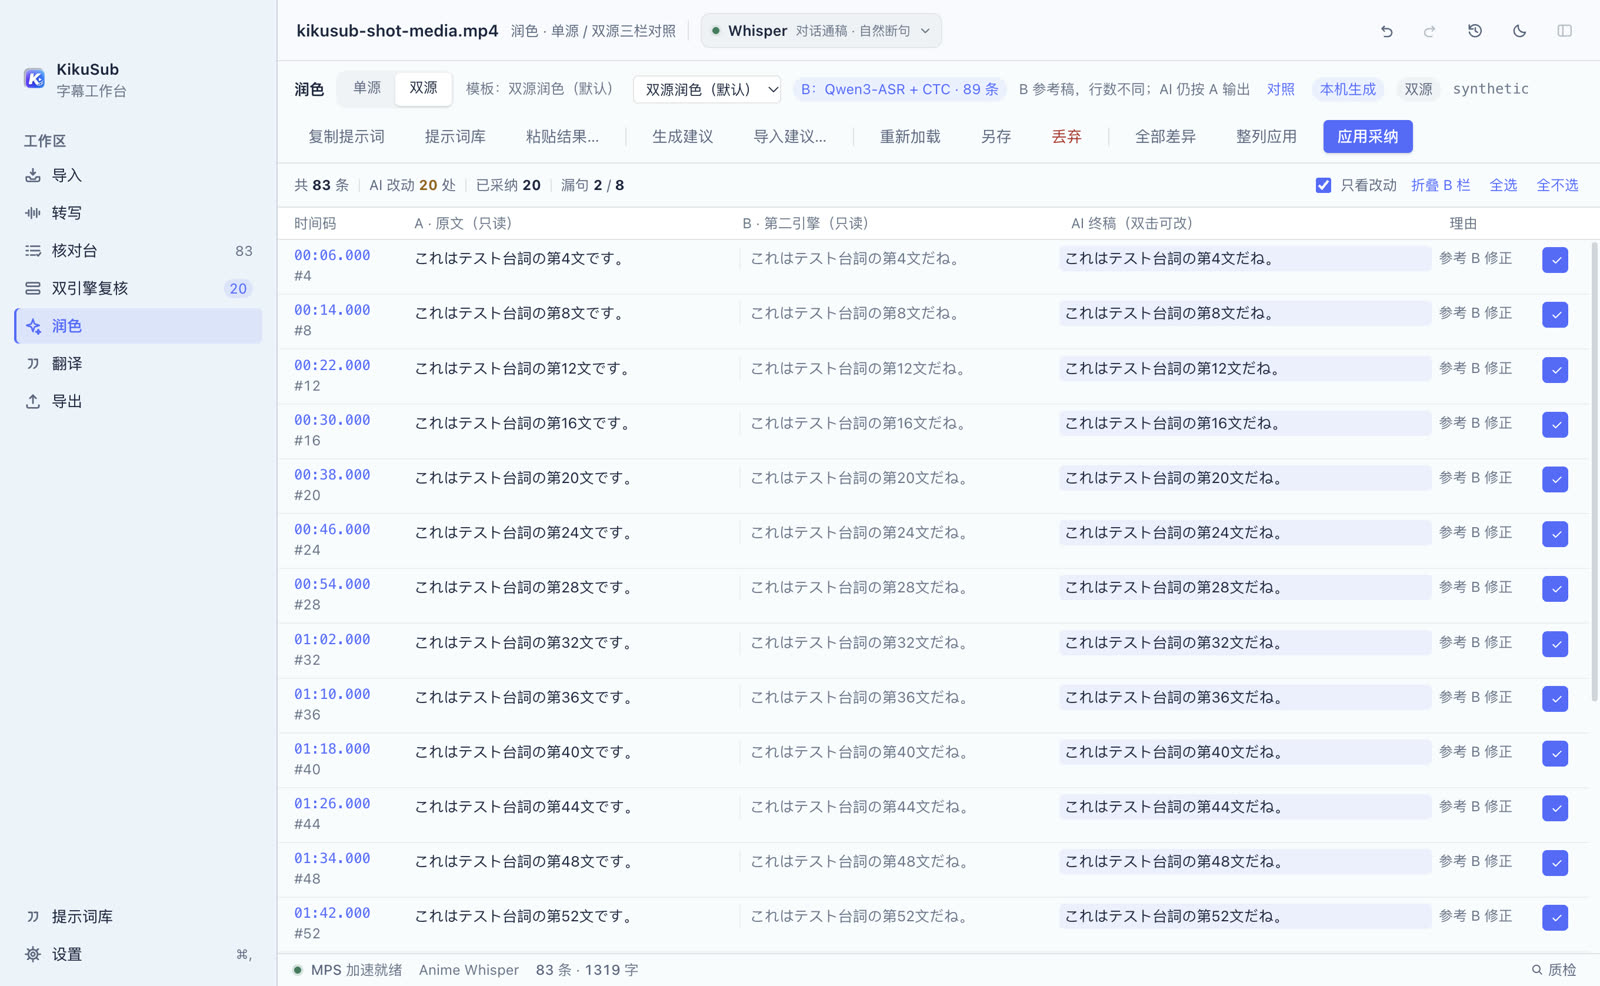
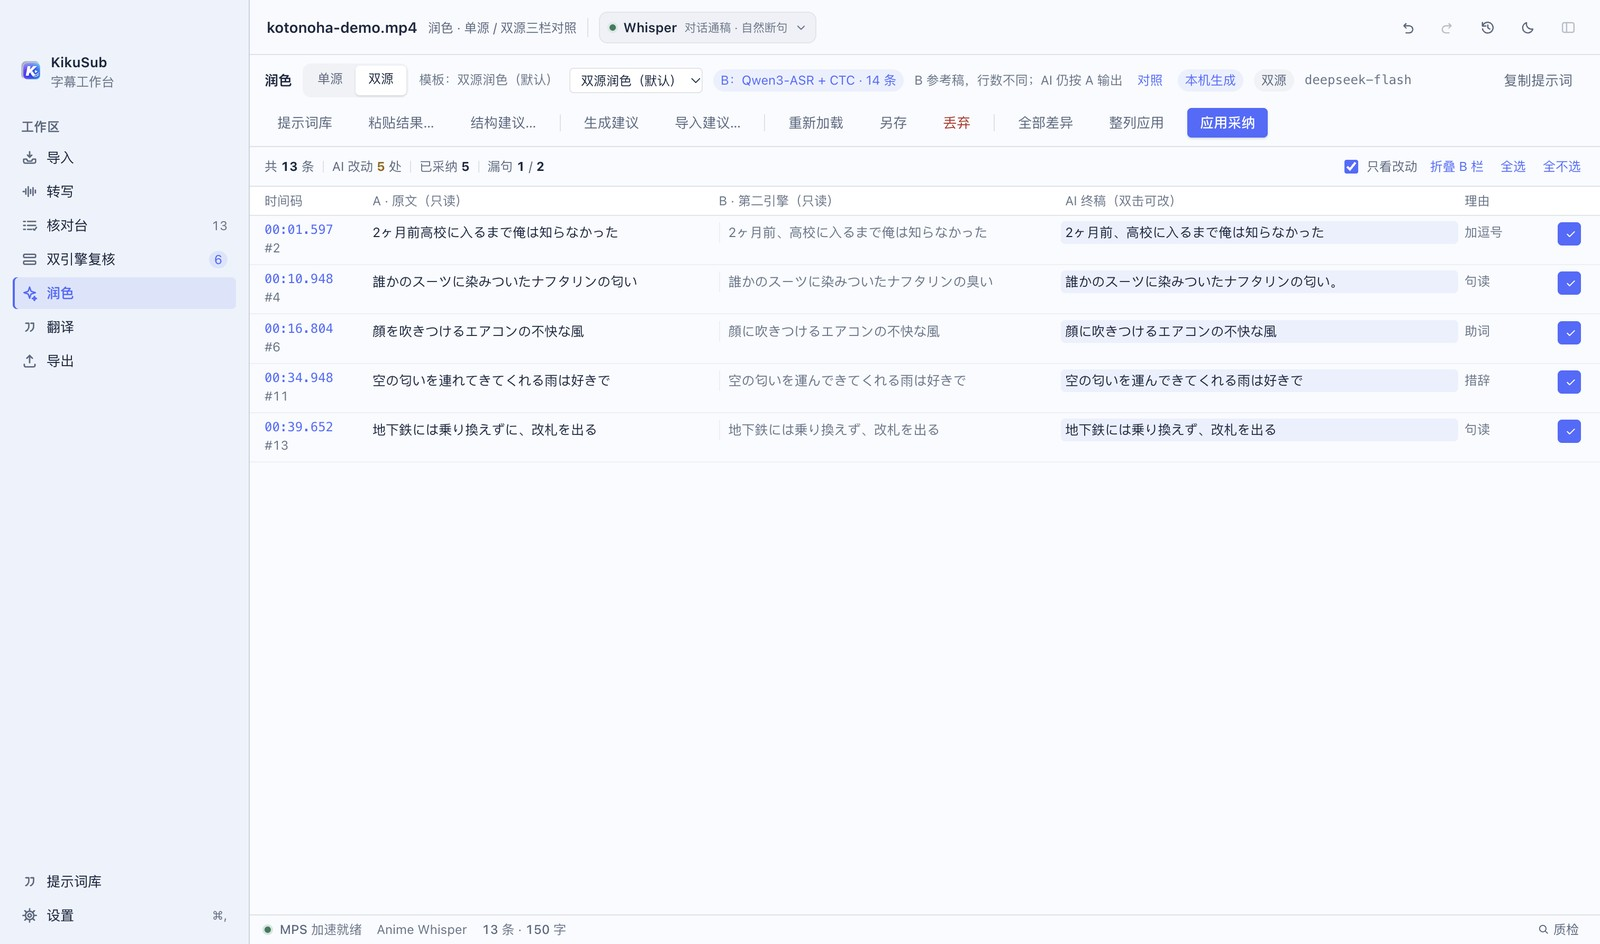
docs: 0.3.0 界面截图与 README

diff --git a/README_EN.md b/README_EN.md
@@ -32,7 +32,7 @@ A Japanese subtitle tool that runs **entirely on your own machine**. Your video 
 - **Transcribe** — Silero VAD segments the speech, then a switchable Japanese engine produces timed subtitles.
 - **Review** — video and waveform side by side; drag a cue block to retime it, double-click to edit, ⌘Z to undo.
 - **QA** — missed speech, dropped lines and suspicious short cues are merged into one queue you can audition and patch.
-- **AI polish / translate** — your own model produces a *proposal*; you diff it in two columns, then apply the batch. Translations live in a parallel track and export as source, target or bilingual.
+- **AI polish / translate / structure suggestions** — your own model produces a *proposal*; you diff it in two columns, then apply the batch. A separate structure lane accepts the model's ops (merge / retime / replace text / insert / delete), previews them, and applies the selection atomically. Translations live in a parallel track and export as source, target or bilingual.
 - **Prompt library** — prompt templates as cards: click to select, double-click to edit; copying fills in the current SRT.
 - **Export** — SRT / VTT / TXT, or a one-click video export with burned-in / soft subtitles, resolution and a "small / sweet spot / high / ultra" bitrate ladder.
 - **Export settings are undoable too** — font size, outline, presets, mode, track, resolution and quality share one history with subtitles, translations, QA state and AI suggestion edits; ⌘Z always undoes the most recent step, and the history panel is a single list.
@@ -88,11 +88,11 @@ Everything except the optional AI features is local inference.
 - The entry point is decoupled from "are there items": zero findings still shows "✅ QA complete".
 - Engine coverage is stated honestly — Qwen3 only covers `missed`, and the other two are labelled "not available for this engine".
 
-**Dual-engine review, polish & translation**
+**Dual-engine review, polish, structure suggestions & translation**
 
 ![Dual review: two read-only columns marked = / ~ / + / −](docs/images/dual-view.jpg)
 
-- A second engine's full transcript goes into a read-only column and **never overwrites the review desk**. Rows are aligned live 1:1 and marked `=` / `~` / `+` / `−`, with character-level highlighting on `~`. **The two versions may have different line counts**; extra lines show up as their own `+` / `−` rows instead of being hidden.
+- A second engine's full transcript goes into a read-only column and **never overwrites the review desk**. Rows are aligned live 1:1 and marked `=` / `~` / `+` / `−`, with a soft character-level tint on `~` (no strikethrough; low-similarity rows keep only the row marker). **The two versions may have different line counts**; extra lines show up as their own `+` / `−` rows instead of being hidden.
 - The second version is cached per media file and restored when you switch back. Drop it, or confirm once to replace the whole review desk with B (one ⌘Z reverts everything).
 - The sidebar badge counts text-diff rows only; `+` / `−` missing lines are shown inside the page.
 
@@ -100,10 +100,13 @@ Everything except the optional AI features is local inference.
 
 - Every AI result lands as a **suggestion file**; the app only renders the diff and applies it. In-app generation and external agents produce the same UI.
 - **Proposals carry no timestamps.** The timeline is joined back by index, so "the timeline never changes" is a structural guarantee, not a prompt request.
-- **Structure suggestions (Phase 1)** — the external model only returns `{"ops":[...]}` (merge / retime / replace text / insert / delete); the app binds the source digest on paste, previews every op, and applies the selection as one history step (⌘Z). No digest or version is requested from the model, and the polish timeline contract is untouched.
 - With a second version you can switch between **single-source / dual-source**: A | B | AI final, with B collapsible. **B does not need the same line count as A** (different engines segment differently); the AI final still follows A's indices and timeline exactly. Accept per item, apply all changed rows, or apply the whole column — all through the same `apply_polish()`, one history entry.
 - Long films switch to **smart segments** for the external copy/paste path: boundaries at the largest A/B silence gap, with per-segment copy / paste and completion tracking.
 - Applying is one history entry — ⌘Z reverts the whole batch. A digest / digest_b mismatch is rejected without touching a single byte.
+
+![Structure suggestions: paste ops JSON, preview merge / retime / replace text / insert / delete](docs/images/structure-view.jpg)
+
+- **Structure suggestions (Phase 1)** — the external model only returns `{"ops":[...]}` (merge / retime / replace text / insert / delete); the app binds the source digest on paste, previews every op, and applies the selection as one history step (⌘Z). No digest or version is requested from the model, and the polish timeline contract is untouched. Conflicting ops are red and cannot be selected; count-changing merge / insert / delete are rejected when a non-empty translation track exists.
 - Translations go into a parallel track aligned cue by cue; count / index / digest mismatches reject the whole batch.
 - Export source, target or bilingual as separate files (`*.lang.srt`, `*.bilingual.srt`). Bilingual files put each language on its own cue over the same time range (the layout used by official bilingual SRTs), so re-importing them into the review desk no longer collapses both lines into one.
 - **Video export**: hard subs use a Pillow sprite + ffmpeg overlay (no libass needed); soft subs are toggleable in MP4; "copy only" skips re-encoding entirely.

diff --git a/README.md b/README.md
@@ -32,7 +32,7 @@
 - **转写**：Silero VAD 切分语音，交给可切换的日语识别引擎，输出带时间轴的字幕。
 - **核对**：视频与波形同屏，边看边改；拖字幕块就能改时间，双击改字，⌘Z 撤回。
 - **质检**：把「可能漏句」「误删待核」「短句可疑」合成一条待核队列，逐条试听、补录。
-- **双引擎复核 / 润色 / 翻译**：另一引擎的整片稿进第二列做只读 diff 对照；双源润色同时参考 A/B，仍严格以 A 的时间轴为骨架；翻译进独立平行轨，可导出原文 / 译文 / 双语。
+- **双引擎复核 / 润色 / 翻译**：另一引擎的整片稿进第二列做只读 diff 对照；双源润色同时参考 A/B，仍严格以 A 的时间轴为骨架；**结构建议**承接外部模型返回的 ops（合并 / 改时间 / 改文字 / 新增 / 删除），预览后原子应用；翻译进独立平行轨，可导出原文 / 译文 / 双语。
 - **提示词库**：提示词模板卡片化，单击选中、双击编辑；复制时自动填入当前字幕的 SRT。
 - **导出**：SRT / VTT / TXT，或一键导出带字幕的成片——可选分辨率、「小 / 甜点 / 高 / 极高」码率、烧录硬字幕 / 软字幕 / 仅封装。
 
@@ -83,11 +83,11 @@
 - 入口与「有没有待核项」解耦：0 处待核也会显示「✅ 质检完成」，不会整个消失
 - 引擎能力如实声明：Qwen3 只覆盖「可能漏句」，另两类明确标注「本引擎不启用」
 
-**双引擎复核、润色与翻译**
+**双引擎复核、润色、结构建议与翻译**
 
 ![双引擎复核：两列只读对照，= / ~ / + / − 逐条标出](docs/images/dual-view.jpg)
 
-- 另一引擎的整片稿进第二列，**不覆盖核对台**；两列只读、实时逐条对齐，像 git diff 一样标出 `=` / `~` / `+` / `−`，`~` 行逐字高亮。**两版行数可以不同**，多出的句子会以独立 `+` / `−` 行显示，不会为了对齐而隐藏
+- 另一引擎的整片稿进第二列，**不覆盖核对台**；两列只读、实时逐条对齐，像 git diff 一样标出 `=` / `~` / `+` / `−`，`~` 行逐字淡色高亮（不再用删除线；相似度太低时只保留整行 `~`）。**两版行数可以不同**，多出的句子会以独立 `+` / `−` 行显示，不会为了对齐而隐藏
 - 第二版按当前媒体自动保存，切走再切回还在；不需要时一键丢弃，或二次确认后整列用 B 覆盖核对台（一次 ⌘Z 全退）
 - 侧栏徽标只统计文本差异行；`+` / `−` 漏句在页内单独展示
 
@@ -98,10 +98,13 @@
 - 有第二版时可选**单源 / 双源**：双源三栏 A | B | AI 终稿，B 可折叠；**B 的条数不要求与 A 相同**（两个引擎断句本来就可能不同），AI 终稿仍严格按 A 的序号与时间轴输出。逐条采纳 / 应用全部差异句 / 整列应用都走同一套 `apply_polish()`，一次历史
 - 长片外部通道超过阈值会自动切成「智能分段」：在 A/B 静音间隙最大处断开，逐段复制 / 回填并跟踪状态
 - 应用 = 整批一次历史，⌘Z 一次全退回；digest / digest_b 不符（换过片、改过原文或第二版）直接拒绝，一个字节都不动字幕
+
+![结构建议：粘贴外部模型的 ops JSON，预览合并 / 改时间 / 改文字 / 新增 / 删除](docs/images/structure-view.jpg)
+
+- **结构建议（Phase 1）**：外部模型只需返回 `{"ops":[...]}`（合并 / 改时间 / 改文字 / 新增 / 删除），软件在粘贴时自动绑定源指纹并预览；逐项勾选后一次应用，⌘Z 整批退回。模型不需要输出 digest / version，也不改润色提案的时间轴契约；冲突项标红且不能勾选，已有译文轨时合并 / 新增 / 删除会被拒绝。
 - 翻译进独立平行轨，与原文逐条对齐；条数 / 序号 / 指纹任一不符就整批拒绝
 - 导出支持原文 / 译文 / 双语三种，`*.lang.srt` 与 `*.bilingual.srt` 分开命名；双语文件按同一时间轴下原文、译文各一条写（官方双语 SRT 的写法），重新导入核对台不会挤成一行
 - 「复制提示词 / 粘贴结果」翻译用提示词库模板；**润色也支持**同一条手动通道，不想用 API 时粘到任意网页版模型，再把回复粘回来——只按顺序取文本，时间轴仍用你自己的
-- **结构建议（Phase 1）**：外部模型只需返回 `{"ops":[...]}`（合并 / 改时间 / 改文字 / 新增 / 删除），软件在粘贴时自动绑定源指纹并预览；逐项勾选后一次应用，⌘Z 整批退回。模型不需要输出 digest / version，也不改润色提案的时间轴契约
 - **成片导出**：硬字幕走 Pillow 精灵 + ffmpeg overlay，不依赖 libass；软字幕 MP4 可开关字幕；「仅封装」不重编码，几秒完成
 - **字幕样式**：烧录硬字幕可选「组标标准 / 粗黑重边 / 番剧圆体 / 电影宋体 / 日式放送 / 清爽细体」等预设，也能单独调字体、字重、字号、描边、阴影与位置；右侧预览直接用当前视频帧渲染，支持「整帧 / 字体特写」两种视角
 - **导出设置也能撤销**：字号 / 描边 / 预设 / 形式 / 字幕轨 / 分辨率 / 码率与「再导一份」都进同一条历史；不再按「谁更近」猜域，历史面板就是一组条目，点任意一步跳回
